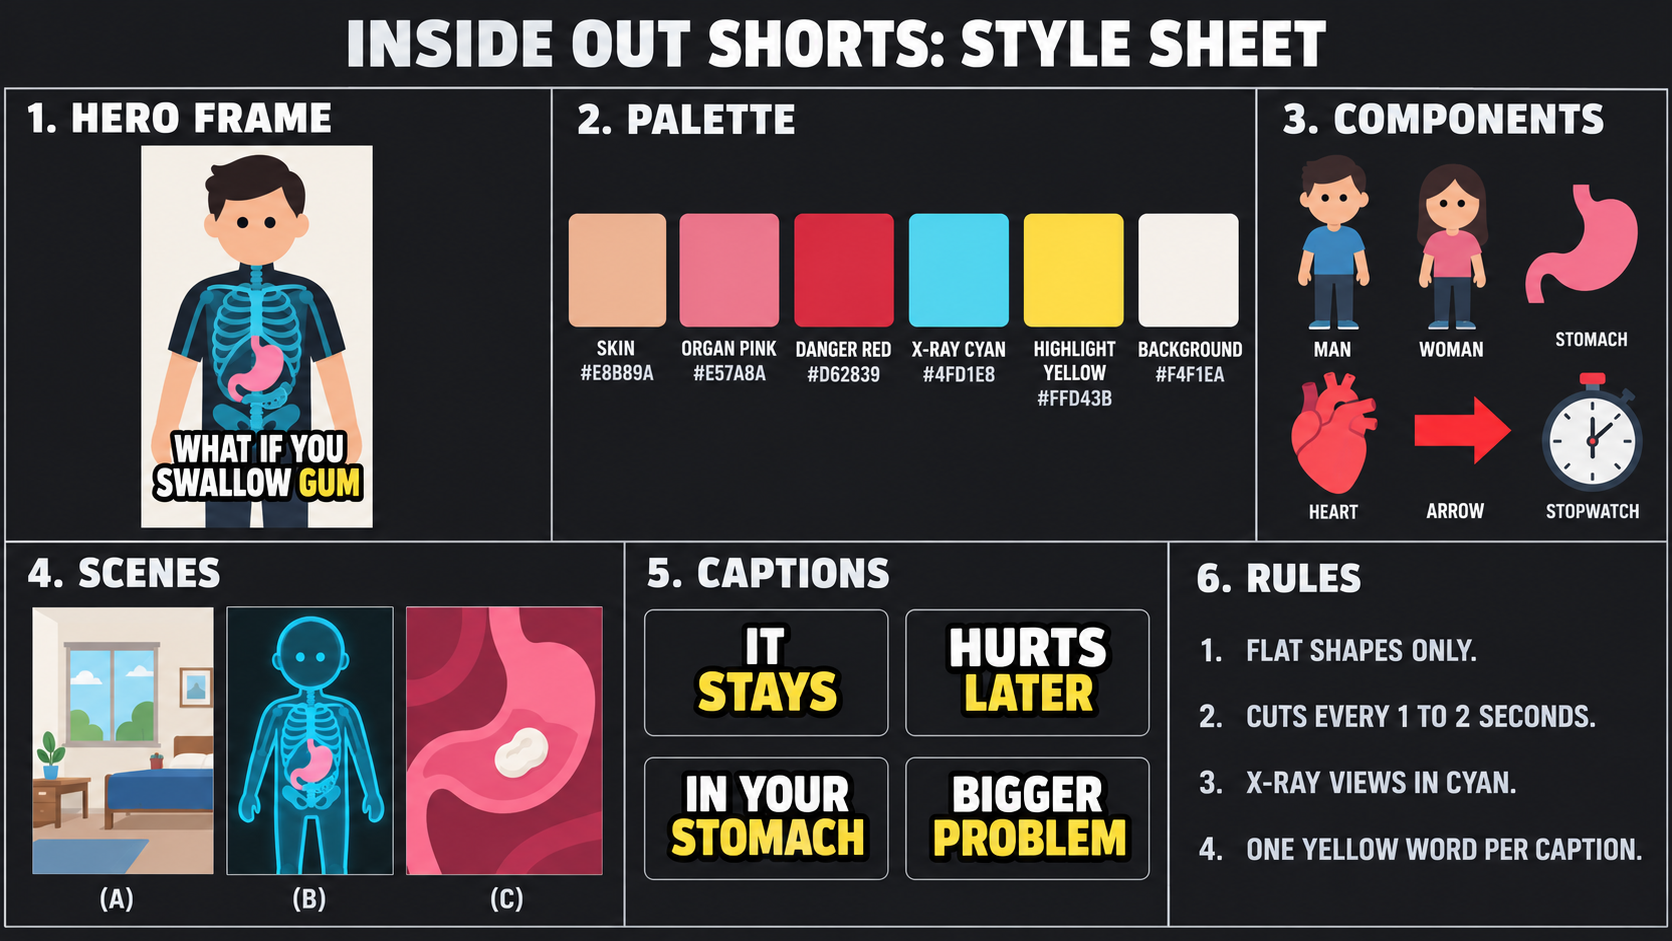
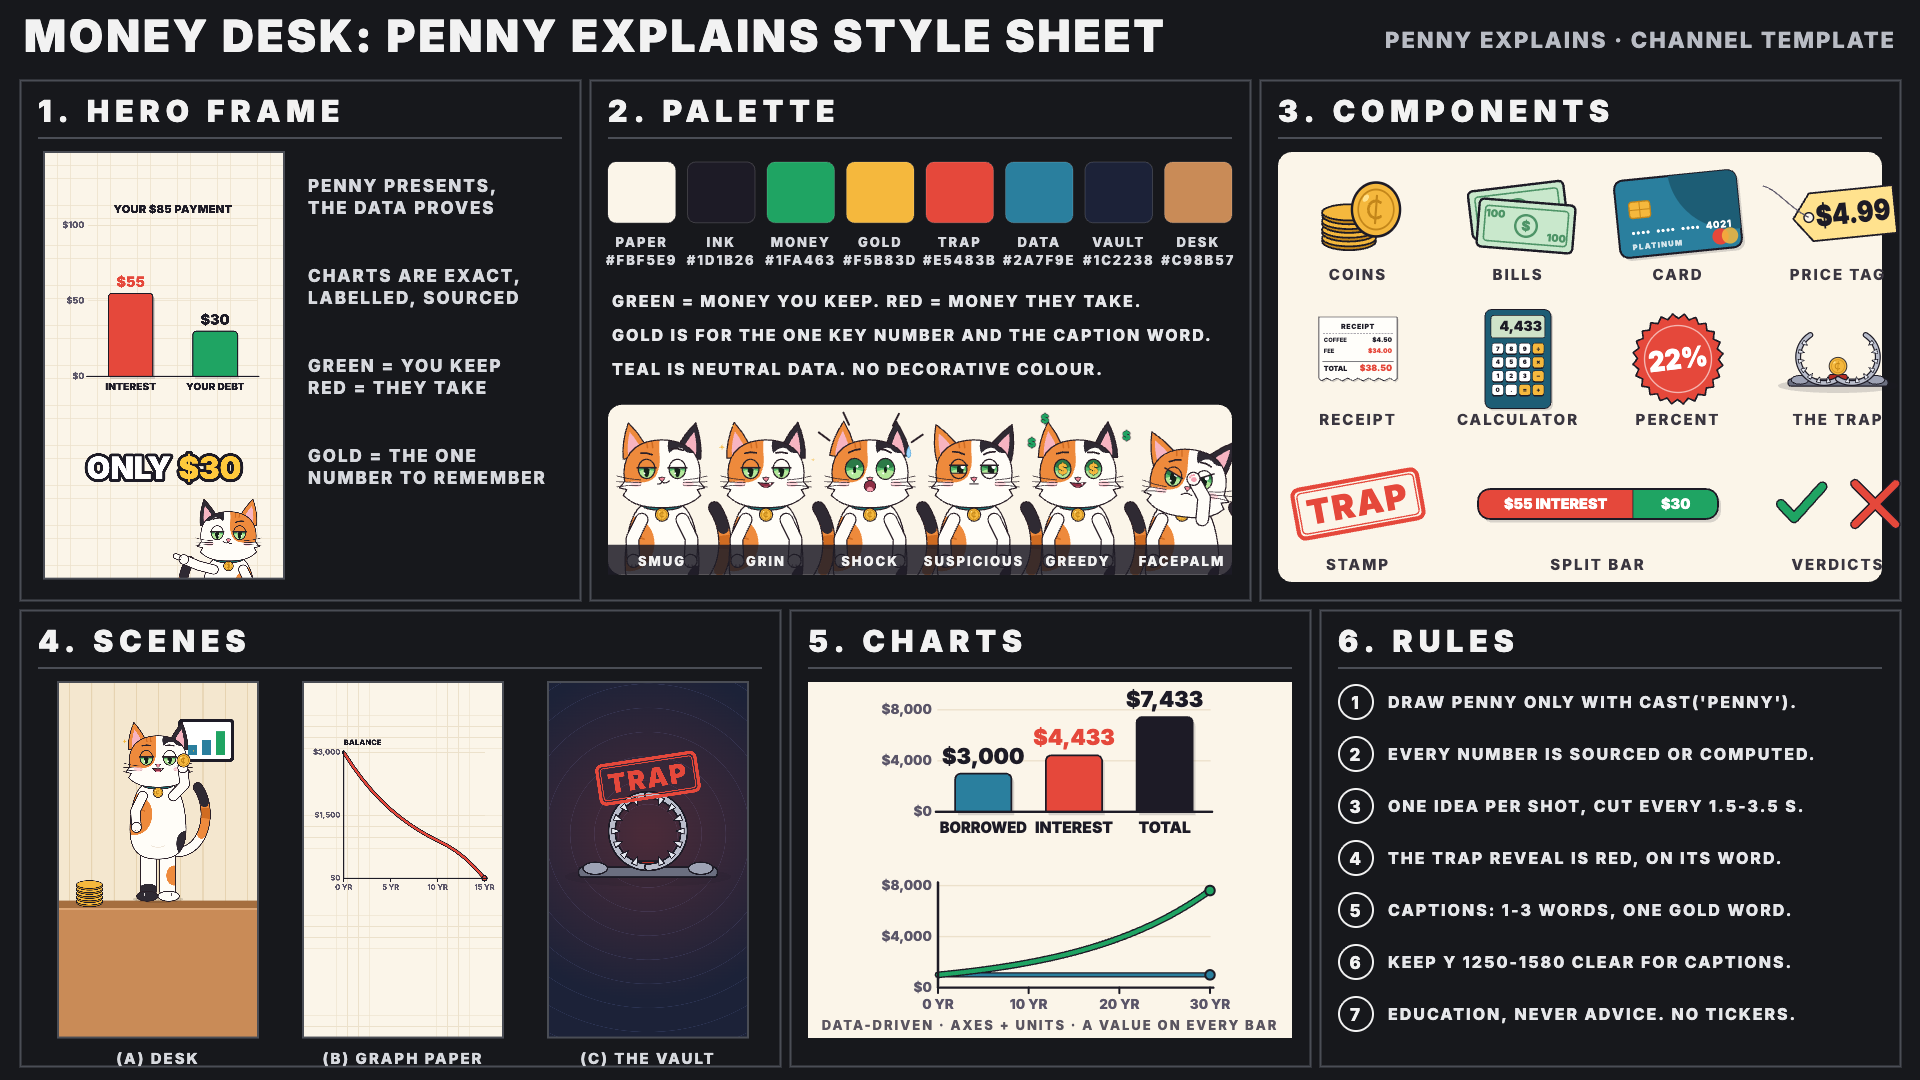
money-desk: kit (charts, counters, money objects, trap, before/after) and style sheet; Penny voice pick

diff --git a/channels/penny-explains/templates/money-desk/src/core/kit.js b/channels/penny-explains/templates/money-desk/src/core/kit.js
@@ -259,17 +259,17 @@ export function statement(x, y, w, { title = 'STATEMENT', rows = [], hi = -1, hi
  * Bars grow from the baseline; each value label counts up with its bar and sits on top of it.
  */
 export function barChart(o) {
-  const { x, y, w, h, bars, max, p = 1, ticks = [], fmt = (v) => fmtNum(v), title = null, stagger = 0.25, labelSize = 40, valueSize = 52 } = o;
-  if (title) text(title, x + w / 2, y - 60, 46, P.ink, { spacing: 1, maxW: w });
+  const { x, y, w, h, bars, max, p = 1, ticks = [], fmt = (v) => fmtNum(v), title = null, stagger = 0.25, labelSize = 46, valueSize = 64, tickSize = 40 } = o;
+  if (title) text(title, x + w / 2, y - 70, 50, P.ink, { spacing: 1, maxW: w });
   ctx.save();
-  for (const tv of ticks) { const yy = y + h - tv / max * h; line([[x, yy], [x + w, yy]], P.grid, 3); text(fmt(tv), x - 16, yy, 30, P.inkSoft, { align: 'right', weight: 800 }); }
+  for (const tv of ticks) { const yy = y + h - tv / max * h; line([[x, yy], [x + w, yy]], P.grid, 4); text(fmt(tv), x - 18, yy, tickSize, P.inkSoft, { align: 'right', weight: 800 }); }
   const n = bars.length, gap = w / n, bw = Math.min(200, gap * 0.62);
   bars.forEach((b, i) => {
     const k = eio(clamp((p - i * stagger / Math.max(1, n - 1)) / (1 - stagger))), v = b.value * k, bh = v / max * h, cx = x + gap * (i + 0.5);
     rr(cx - bw / 2 + 8, y + h - bh + 10, bw, bh, [16, 16, 0, 0]); ctx.fillStyle = P.shadow; ctx.fill();
     if (bh > 1) { rr(cx - bw / 2, y + h - bh, bw, bh, [16, 16, 0, 0]); ctx.fillStyle = b.color || P.teal; ctx.fill(); ctx.lineWidth = 5; ctx.strokeStyle = P.ink; ctx.stroke(); }
-    if (k > 0) text(b.text ? b.text(v) : fmt(v), cx, y + h - bh - 42, valueSize, b.color === P.red ? P.red : P.ink, { maxW: gap - 10 });
-    text(b.label, cx, y + h + 46, labelSize, P.ink, { weight: 900, maxW: gap - 10 });
+    if (k > 0) text(b.text ? b.text(v) : fmt(v), cx, y + h - bh - valueSize * 0.75, valueSize, b.color === P.red ? P.red : P.ink, { maxW: gap - 10 });
+    text(b.label, cx, y + h + labelSize * 1.05, labelSize, P.ink, { weight: 900, maxW: gap - 10 });
   });
   line([[x - 6, y + h], [x + w + 6, y + h]], P.ink, 7);
   ctx.restore();
@@ -280,12 +280,12 @@ export function barChart(o) {
  * Every point comes from data; the head of each line carries a dot (and its value with endLabel).
  */
 export function lineChart(o) {
-  const { x, y, w, h, xMin, xMax, yMin, yMax, series, p = 1, xTicks = [], yTicks = [], fmtX = (v) => fmtNum(v), fmtY = (v) => fmtNum(v), xLabel = null, yLabel = null, endDot = true, endLabel = null } = o;
+  const { x, y, w, h, xMin, xMax, yMin, yMax, series, p = 1, xTicks = [], yTicks = [], fmtX = (v) => fmtNum(v), fmtY = (v) => fmtNum(v), xLabel = null, yLabel = null, endDot = true, endLabel = null, tickSize = 40 } = o;
   const X = (v) => x + (v - xMin) / (xMax - xMin) * w, Y = (v) => y + h - (v - yMin) / (yMax - yMin) * h;
-  for (const tv of yTicks) { line([[x, Y(tv)], [x + w, Y(tv)]], P.grid, 3); text(fmtY(tv), x - 16, Y(tv), 30, P.inkSoft, { align: 'right', weight: 800 }); }
-  for (const tv of xTicks) { line([[X(tv), y + h], [X(tv), y + h + 14]], P.ink, 5); text(fmtX(tv), X(tv), y + h + 44, 32, P.inkSoft, { weight: 800 }); }
-  if (xLabel) text(xLabel, x + w / 2, y + h + 96, 34, P.ink, { weight: 900, spacing: 1 });
-  if (yLabel) text(yLabel, x, y - 44, 34, P.ink, { weight: 900, align: 'left', spacing: 1 });
+  for (const tv of yTicks) { line([[x, Y(tv)], [x + w, Y(tv)]], P.grid, 4); text(fmtY(tv), x - 18, Y(tv), tickSize, P.inkSoft, { align: 'right', weight: 800 }); }
+  for (const tv of xTicks) { line([[X(tv), y + h], [X(tv), y + h + 16]], P.ink, 6); text(fmtX(tv), X(tv), y + h + tickSize * 1.25, tickSize, P.inkSoft, { weight: 800 }); }
+  if (xLabel) text(xLabel, x + w / 2, y + h + tickSize * 2.6, tickSize, P.ink, { weight: 900, spacing: 1 });
+  if (yLabel) text(yLabel, x, y - tickSize * 1.3, tickSize, P.ink, { weight: 900, align: 'left', spacing: 1 });
   const xEnd = lerp(xMin, xMax, clamp(p));
   for (const s of series) {
     const pts = []; const d = s.data;
@@ -321,20 +321,28 @@ export function splitBar(o) {
 }
 
 // ═════════════════════════ THE TRAP + VERDICTS ═════════════════════════
-/** a cartoon spring trap with a coin as bait. close 0 = open, 1 = snapped shut (drive it from time). s = 1 → ~520 wide */
+/** a cartoon jaw trap with a coin as bait. close 0 = open (jaws spread), 1 = snapped shut. s = 1 → ~560 wide */
 export function trap(x, y, s = 1, close = 0, bait = true) {
+  const R = 130;
   ctx.save(); ctx.translate(x, y); ctx.scale(s, s);
-  ell(0, 40, 270, 40, P.shadow);
-  rr(-230, 0, 460, 40, 14); ctx.fillStyle = '#6B6F80'; ctx.fill(); ctx.lineWidth = OUT; ctx.strokeStyle = P.ink; ctx.stroke();
-  rr(-40, -20, 80, 30, 8); ctx.fillStyle = P.redDark; ctx.fill(); ctx.stroke();
-  if (bait && close < 0.5) coin(0, -60, 46, 0, 0);
-  const a = lerp(1.32, 0.04, eob(clamp(close)));       // each jaw's angle from upright: ~flat (open) → upright (shut)
+  ell(0, 34, 300, 36, P.shadow);
+  rr(-250, 0, 500, 36, 14); ctx.fillStyle = '#6B6F80'; ctx.fill(); ctx.lineWidth = OUT; ctx.strokeStyle = P.ink; ctx.stroke();
+  for (const sd of [-1, 1]) { ctx.beginPath(); ctx.ellipse(sd * 190, 4, 44, 22, 0, 0, TAU); ctx.fillStyle = '#9DA2B4'; ctx.fill(); ctx.lineWidth = 5; ctx.stroke(); }
+  rr(-46, -22, 92, 26, 8); ctx.fillStyle = P.redDark; ctx.fill(); ctx.lineWidth = 5; ctx.stroke();
+  if (bait && close < 0.4) coin(0, -64, 44, 0, 0);
+  const th = lerp(0.95, 0, eob(clamp(close)));          // how far each jaw is tipped outward from upright
   for (const sd of [-1, 1]) {
-    ctx.save(); ctx.translate(sd * 10, 10); ctx.rotate(sd * a);
-    ctx.beginPath(); ctx.moveTo(0, 0); ctx.lineTo(0, -230);
-    ctx.lineWidth = 18; ctx.strokeStyle = P.ink; ctx.lineCap = 'round'; ctx.stroke();
-    ctx.lineWidth = 10; ctx.strokeStyle = '#9DA2B4'; ctx.stroke();
-    for (let i = 0; i < 6; i++) { const yy = -40 - i * 34; ctx.beginPath(); ctx.moveTo(0, yy); ctx.lineTo(-sd * 26, yy - 14); ctx.lineTo(0, yy - 26); ctx.fillStyle = '#C7CBD8'; ctx.fill(); ctx.lineWidth = 3; ctx.strokeStyle = P.ink; ctx.stroke(); }
+    ctx.save(); ctx.translate(0, 0); ctx.rotate(sd * th);
+    // the jaw: half of a ring (radius R) from the pivot up and over to the top, teeth pointing inward
+    const half = () => { ctx.beginPath(); ctx.arc(0, -R, R, Math.PI / 2, 3 * Math.PI / 2, sd > 0); };
+    half(); ctx.lineWidth = 30; ctx.strokeStyle = P.ink; ctx.lineCap = 'round'; ctx.stroke();
+    half(); ctx.lineWidth = 18; ctx.strokeStyle = '#B9BDCB'; ctx.stroke();
+    for (let i = 1; i < 8; i++) {
+      const f = Math.PI / 2 + i * Math.PI / 8, py = -R + Math.sin(f) * R;
+      const qx = sd < 0 ? Math.cos(f) * R : -Math.cos(f) * R, nx = -qx / R, ny = (-R - py) / R, tx = -ny, ty = nx;
+      ctx.beginPath(); ctx.moveTo(qx + tx * 11, py + ty * 11); ctx.lineTo(qx + nx * 30, py + ny * 30); ctx.lineTo(qx - tx * 11, py - ty * 11); ctx.closePath();
+      ctx.fillStyle = '#E3E6EE'; ctx.fill(); ctx.lineWidth = 3.5; ctx.strokeStyle = P.ink; ctx.lineJoin = 'round'; ctx.stroke();
+    }
     ctx.restore();
   }
   ctx.restore();

diff --git a/channels/penny-explains/templates/money-desk/src/sheet.js b/channels/penny-explains/templates/money-desk/src/sheet.js
@@ -1,0 +1,90 @@
+// The Money Desk style sheet, drawn with the template's own kit and Penny's own code (through the cast).
+import { ctx } from './core/lib.js';
+import { startBoard, panel, frame, cell, small, swatches, rules } from './core/board.js';
+import { cast } from './core/cast.js';
+import * as K from './core/kit.js';
+const { P } = K;
+const penny = cast('penny');
+
+const cv = document.getElementById('cv');
+await document.fonts.load('900 40px Inter'); await document.fonts.load('800 40px Inter');
+startBoard(cv, { title: 'MONEY DESK: PENNY EXPLAINS STYLE SHEET', accent: P.capGold, author: 'PENNY EXPLAINS · CHANNEL TEMPLATE' });
+
+const caption = (words, y = 1430) => {
+  ctx.font = '900 138px Inter'; ctx.textAlign = 'left'; ctx.textBaseline = 'middle'; ctx.lineJoin = 'round';
+  const ws = words.map(([w]) => ctx.measureText(w).width), sp = 34, tw = ws.reduce((a, b) => a + b, 0) + sp * (ws.length - 1);
+  let x = 540 - tw / 2;
+  words.forEach(([w, hi], i) => { ctx.lineWidth = 28; ctx.strokeStyle = P.ink; ctx.strokeText(w, x, y); ctx.fillStyle = hi ? P.capGold : P.white; ctx.fillText(w, x, y); x += ws[i] + sp; });
+};
+
+// 1 · hero frame
+let b = panel(20, 80, 560, 520, 1, 'HERO FRAME');
+frame(b.x + 6, b.y, 240, () => {
+  K.paper();
+  K.barChart({ x: 200, y: 330, w: 760, h: 680, max: 100, title: 'YOUR $85 PAYMENT', bars: [{ label: 'INTEREST', value: 55, color: P.red, text: (v) => K.fmtMoney(v) }, { label: 'YOUR DEBT', value: 30, color: P.green, text: (v) => K.fmtMoney(v) }], ticks: [0, 50, 100], fmt: (v) => K.fmtMoney(v) });
+  penny.draw({ x: 830, y: 2330, s: 0.72, pose: 'point', expression: 'smug', flip: -1, t: 0.4, blink: false });
+  caption([['ONLY', 0], ['$30', 1]]);
+});
+small('PENNY PRESENTS,\nTHE DATA PROVES', b.x + 270, b.y + 40, 'left', 17);
+small('CHARTS ARE EXACT,\nLABELLED, SOURCED', b.x + 270, b.y + 130, 'left', 17);
+small('GREEN = YOU KEEP\nRED = THEY TAKE', b.x + 270, b.y + 220, 'left', 17);
+small('GOLD = THE ONE\nNUMBER TO REMEMBER', b.x + 270, b.y + 310, 'left', 17);
+
+// 2 · palette + Penny's moods
+b = panel(590, 80, 660, 520, 2, 'PALETTE');
+const yy = swatches(b, [['PAPER', P.paper], ['INK', P.ink], ['MONEY', P.green], ['GOLD', P.gold], ['TRAP', P.red], ['DATA', P.teal], ['VAULT', P.vault], ['DESK', P.desk]]);
+['GREEN = MONEY YOU KEEP. RED = MONEY THEY TAKE.', 'GOLD IS FOR THE ONE KEY NUMBER AND THE CAPTION WORD.', 'TEAL IS NEUTRAL DATA. NO DECORATIVE COLOUR.']
+  .forEach((t, i) => small(t, b.x + 4, yy + 14 + i * 34, 'left', 16, '#E6E7EA'));
+const sy = yy + 112;
+ctx.fillStyle = P.paper; ctx.beginPath(); ctx.roundRect(b.x, sy, b.w, 170, 14); ctx.fill();
+ctx.save(); ctx.beginPath(); ctx.roundRect(b.x, sy, b.w, 170, 14); ctx.clip();
+['smug', 'grin', 'shock', 'suspicious', 'greedy', 'facepalm'].forEach((m, i) => {
+  const o = m === 'facepalm' ? { pose: 'facepalm', expression: 'sad' } : { expression: m };
+  cell(b.x + 54 + i * 104, sy + 70, 0.22, () => penny.draw({ x: 0, y: 830, s: 1, t: 0.4, blink: false, shadow: false, ...o }), null);
+});
+ctx.restore();
+ctx.fillStyle = 'rgba(29,27,38,0.85)'; ctx.fillRect(b.x, sy + 140, b.w, 30);
+['SMUG', 'GRIN', 'SHOCK', 'SUSPICIOUS', 'GREEDY', 'FACEPALM'].forEach((m, i) => small(m, b.x + 54 + i * 104, sy + 161, 'center', 13, '#F2F2F2'));
+
+// 3 · components
+b = panel(1260, 80, 640, 520, 3, 'COMPONENTS');
+ctx.fillStyle = P.paper; ctx.beginPath(); ctx.roundRect(b.x, b.y, b.w, b.h, 14); ctx.fill();
+const gx = (i) => b.x + 80 + i * 160, gy = (r) => b.y + 62 + r * 145;
+cell(gx(0), gy(0), 0.45, () => { K.coinStack(-20, 60, 4, 60); K.coin(40, -10, 60, 0.15); }, 'COINS', 66);
+cell(gx(1), gy(0), 0.4, () => { K.bill(0, -10, 1, -0.12, '20'); K.bill(20, 30, 1, 0.08, '100'); }, 'BILLS', 66);
+cell(gx(2), gy(0), 0.34, () => K.creditCard(0, 0, 1, -0.1), 'CARD', 66);
+cell(gx(3), gy(0), 0.3, () => K.priceTag(20, 0, 1, '$4.99', -0.1), 'PRICE TAG', 66);
+cell(gx(0), gy(1), 0.14, () => K.receipt(0, -300, 1, { title: 'RECEIPT', rows: [['COFFEE', '$4.50'], ['FEE', '$34.00', P.red]], total: ['TOTAL', '$38.50', P.red] }), 'RECEIPT', 66);
+cell(gx(1), gy(1), 0.15, () => K.calculator(0, 0, 1, '4,433'), 'CALCULATOR', 66);
+cell(gx(2), gy(1), 0.27, () => K.pctBadge(0, 0, 1, '22%'), 'PERCENT', 66);
+cell(gx(3), gy(1), 0.2, () => K.trap(0, 100, 1, 0.1), 'THE TRAP', 66);
+cell(gx(0), gy(2), 0.26, () => K.stamp('TRAP', 0, 0, 1), 'STAMP', 66);
+cell(gx(1) + 80, gy(2), 0.3, () => K.splitBar({ x: -400, y: -50, w: 800, h: 100, parts: [{ value: 55, color: P.red, label: '$55 INTEREST' }, { value: 30, color: P.green, label: '$30' }] }), 'SPLIT BAR', 66);
+cell(gx(3), gy(2), 0.34, () => { K.check(-110, 0, 0.32); K.redX(110, 0, 0.3); }, 'VERDICTS', 66);
+
+// 4 · scenes
+b = panel(20, 610, 760, 456, 4, 'SCENES');
+const sw = 200, sx = (i) => b.x + 20 + i * (sw + 45);
+frame(sx(0), b.y, sw, () => { K.desk(0); penny.draw({ x: 540, y: 1180, s: 0.9, pose: 'coin', expression: 'grin', t: 0.4, blink: false }); K.coinStack(170, 1190, 5, 70); });
+frame(sx(1), b.y, sw, () => {
+  K.paper();
+  const data = [3000, 2659, 2357, 2089, 1852, 1641, 1455, 1290, 1143, 1013, 898, 784, 643, 467, 249, 0].map((v, i) => [i, v]);   // $3,000 at 22%, minimum = interest + 1%
+  K.lineChart({ x: 220, y: 380, w: 760, h: 680, xMin: 0, xMax: 15, yMin: 0, yMax: 3000, xTicks: [0, 5, 10, 15], yTicks: [0, 1500, 3000], fmtX: (v) => v + ' YR', fmtY: (v) => K.fmtMoney(v), yLabel: 'BALANCE', series: [{ data, color: P.red }] });
+});
+frame(sx(2), b.y, sw, () => { K.vault(1.2); K.trap(540, 1000, 1.5, 1, false); K.stamp('TRAP', 540, 520, 1.1, P.red, -0.15, 1); });
+['(A) DESK', '(B) GRAPH PAPER', '(C) THE VAULT'].forEach((t, i) => small(t, sx(i) + sw / 2, b.y + sw * 16 / 9 + 26, 'center', 15));
+
+// 5 · charts
+b = panel(790, 610, 520, 456, 5, 'CHARTS');
+ctx.fillStyle = P.paper; ctx.fillRect(b.x, b.y, b.w, b.h - 10);
+cell(b.x + b.w / 2 + 24, b.y + 4, 0.34, () => K.barChart({ x: -400, y: 70, w: 800, h: 300, max: 8000, bars: [{ label: 'BORROWED', value: 3000, color: P.teal }, { label: 'INTEREST', value: 4433, color: P.red }, { label: 'TOTAL', value: 7433, color: P.ink }], ticks: [0, 4000, 8000], fmt: (v) => K.fmtMoney(v) }), null);
+cell(b.x + b.w / 2 + 24, b.y + 190, 0.34, () => {
+  const g = [], f = []; for (let y = 0; y <= 30; y++) { g.push([y, 1000 * Math.pow(1.07, y)]); f.push([y, 1000]); }
+  K.lineChart({ x: -400, y: 40, w: 800, h: 300, xMin: 0, xMax: 30, yMin: 0, yMax: 8000, xTicks: [0, 10, 20, 30], yTicks: [0, 4000, 8000], fmtX: (v) => v + ' YR', fmtY: (v) => K.fmtMoney(v), series: [{ data: f, color: P.teal, width: 8 }, { data: g, color: P.green }] });
+}, null);
+small('DATA-DRIVEN · AXES + UNITS · A VALUE ON EVERY BAR', b.x + b.w / 2, b.y + b.h - 18, 'center', 13, '#5A5560');
+
+// 6 · rules
+b = panel(1320, 610, 580, 456, 6, 'RULES');
+rules(b, ['DRAW PENNY ONLY WITH CAST(\'PENNY\').', 'EVERY NUMBER IS SOURCED OR COMPUTED.', 'ONE IDEA PER SHOT, CUT EVERY 1.5-3.5 S.', 'THE TRAP REVEAL IS RED, ON ITS WORD.', 'CAPTIONS: 1-3 WORDS, ONE GOLD WORD.', 'KEEP Y 1250-1580 CLEAR FOR CAPTIONS.', 'EDUCATION, NEVER ADVICE. NO TICKERS.'], b.y + 26, 16, 52);
+window.SHEET_READY = true;
